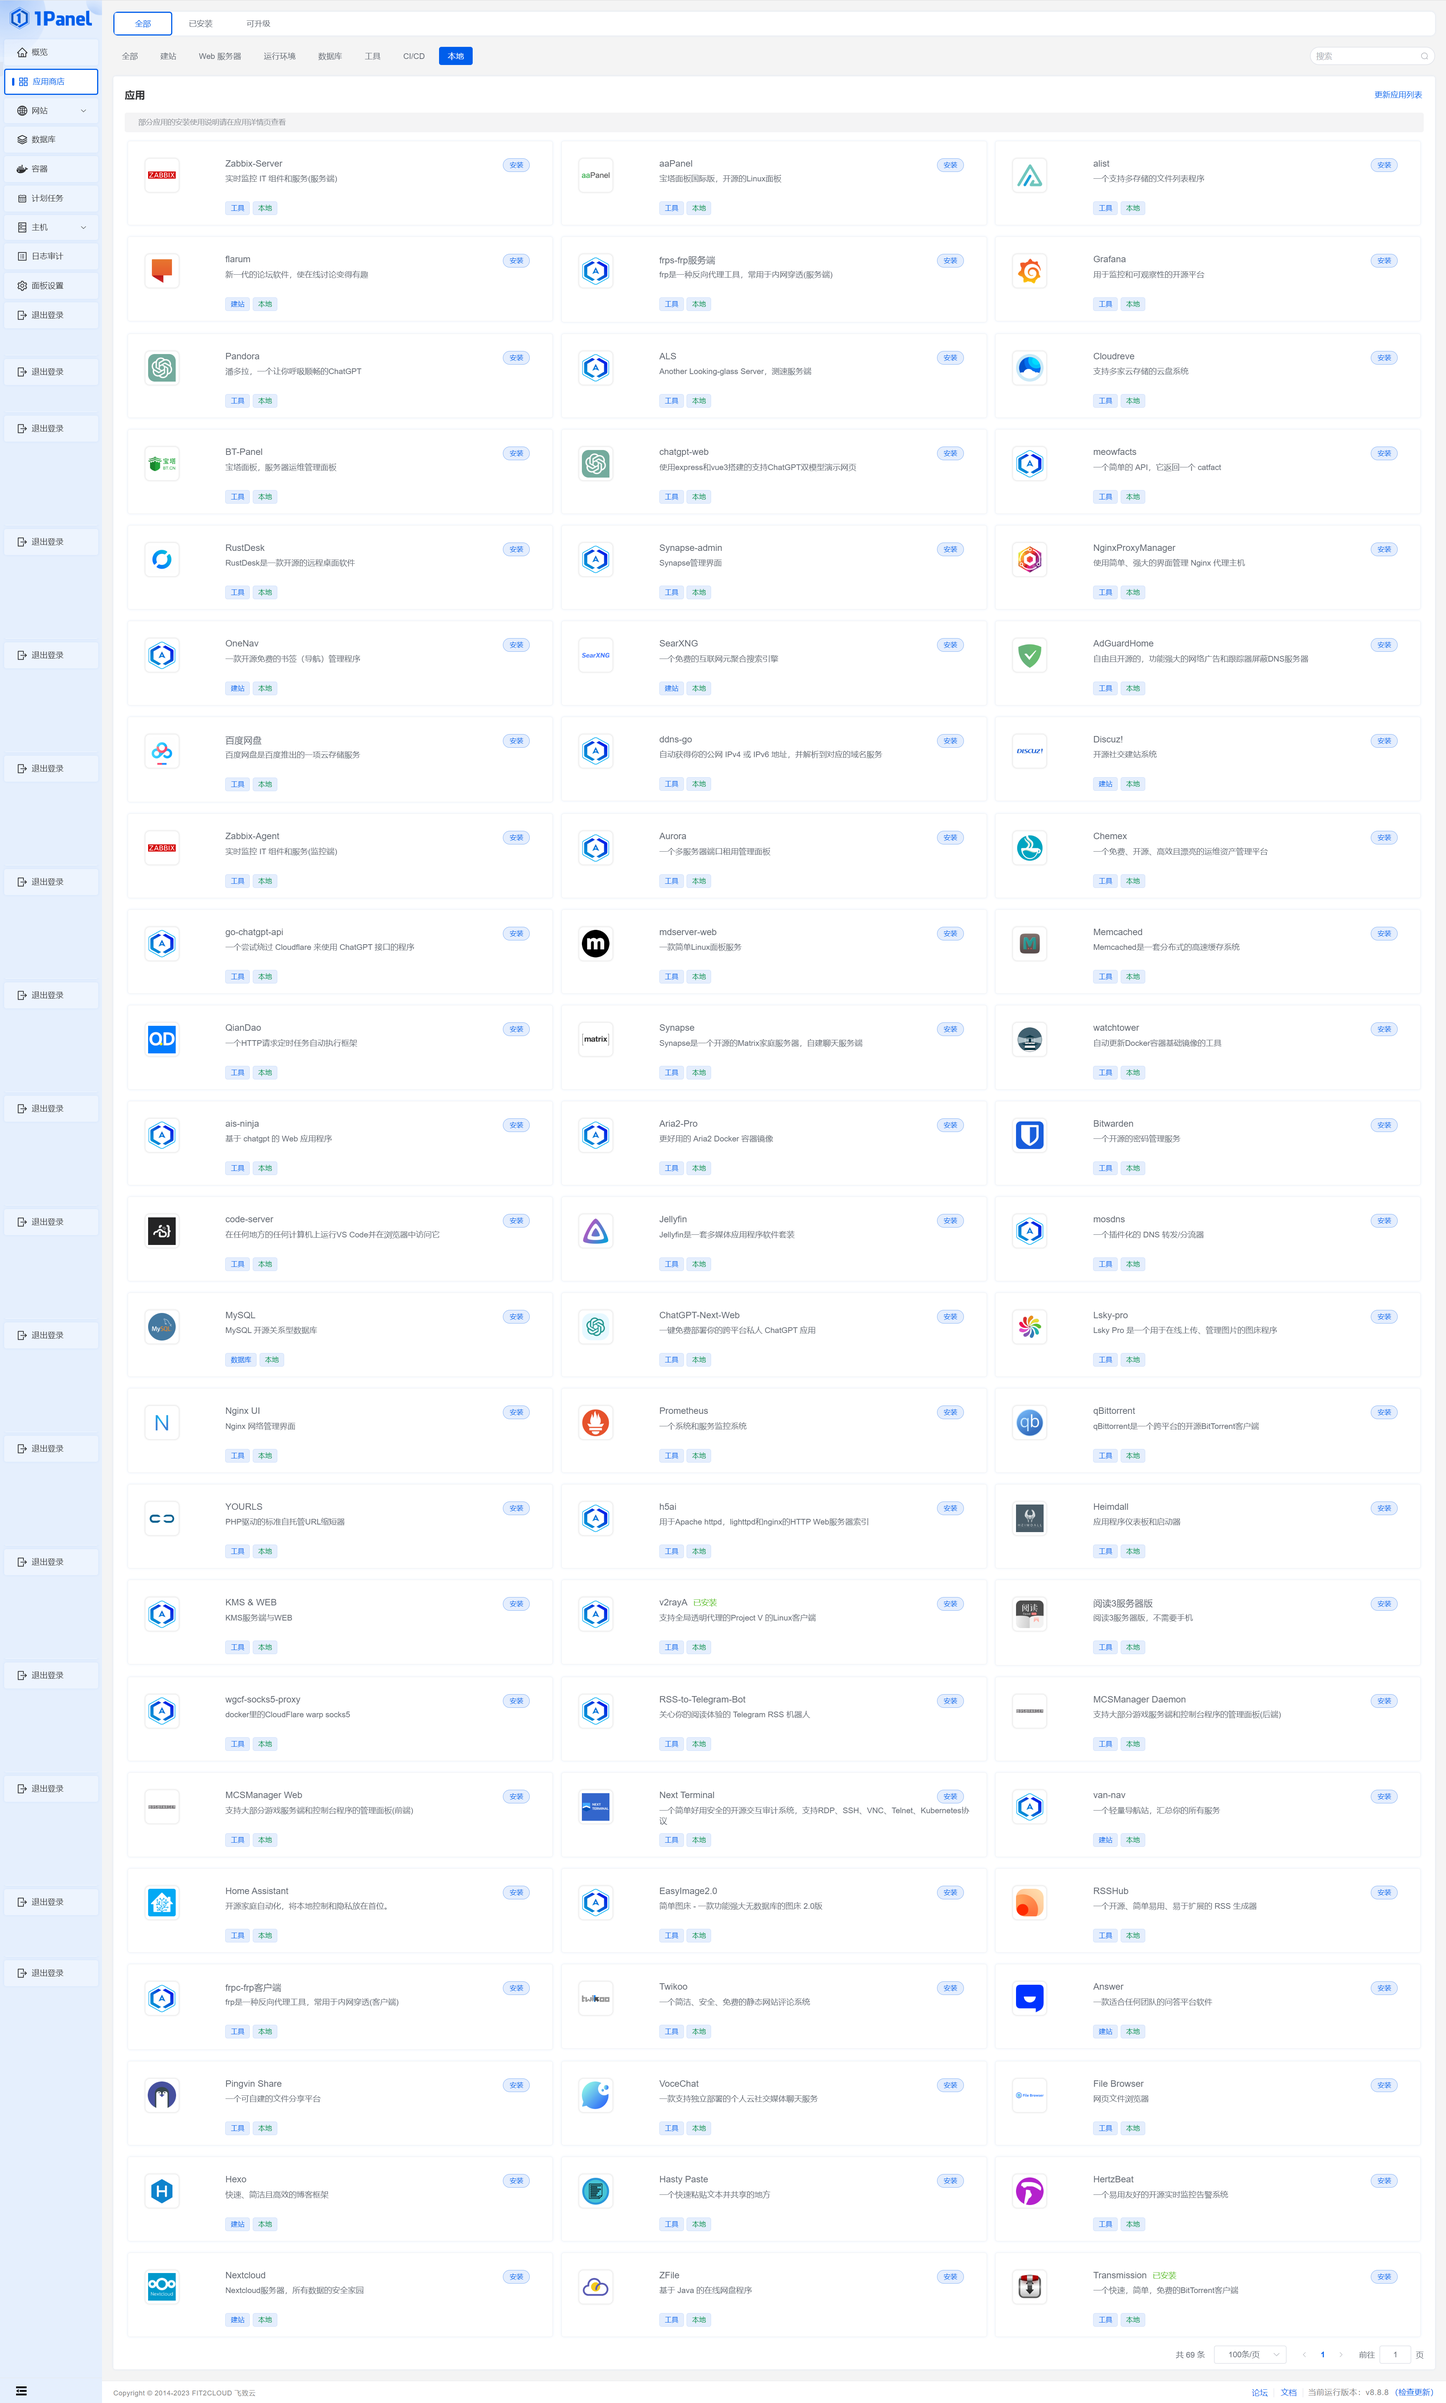
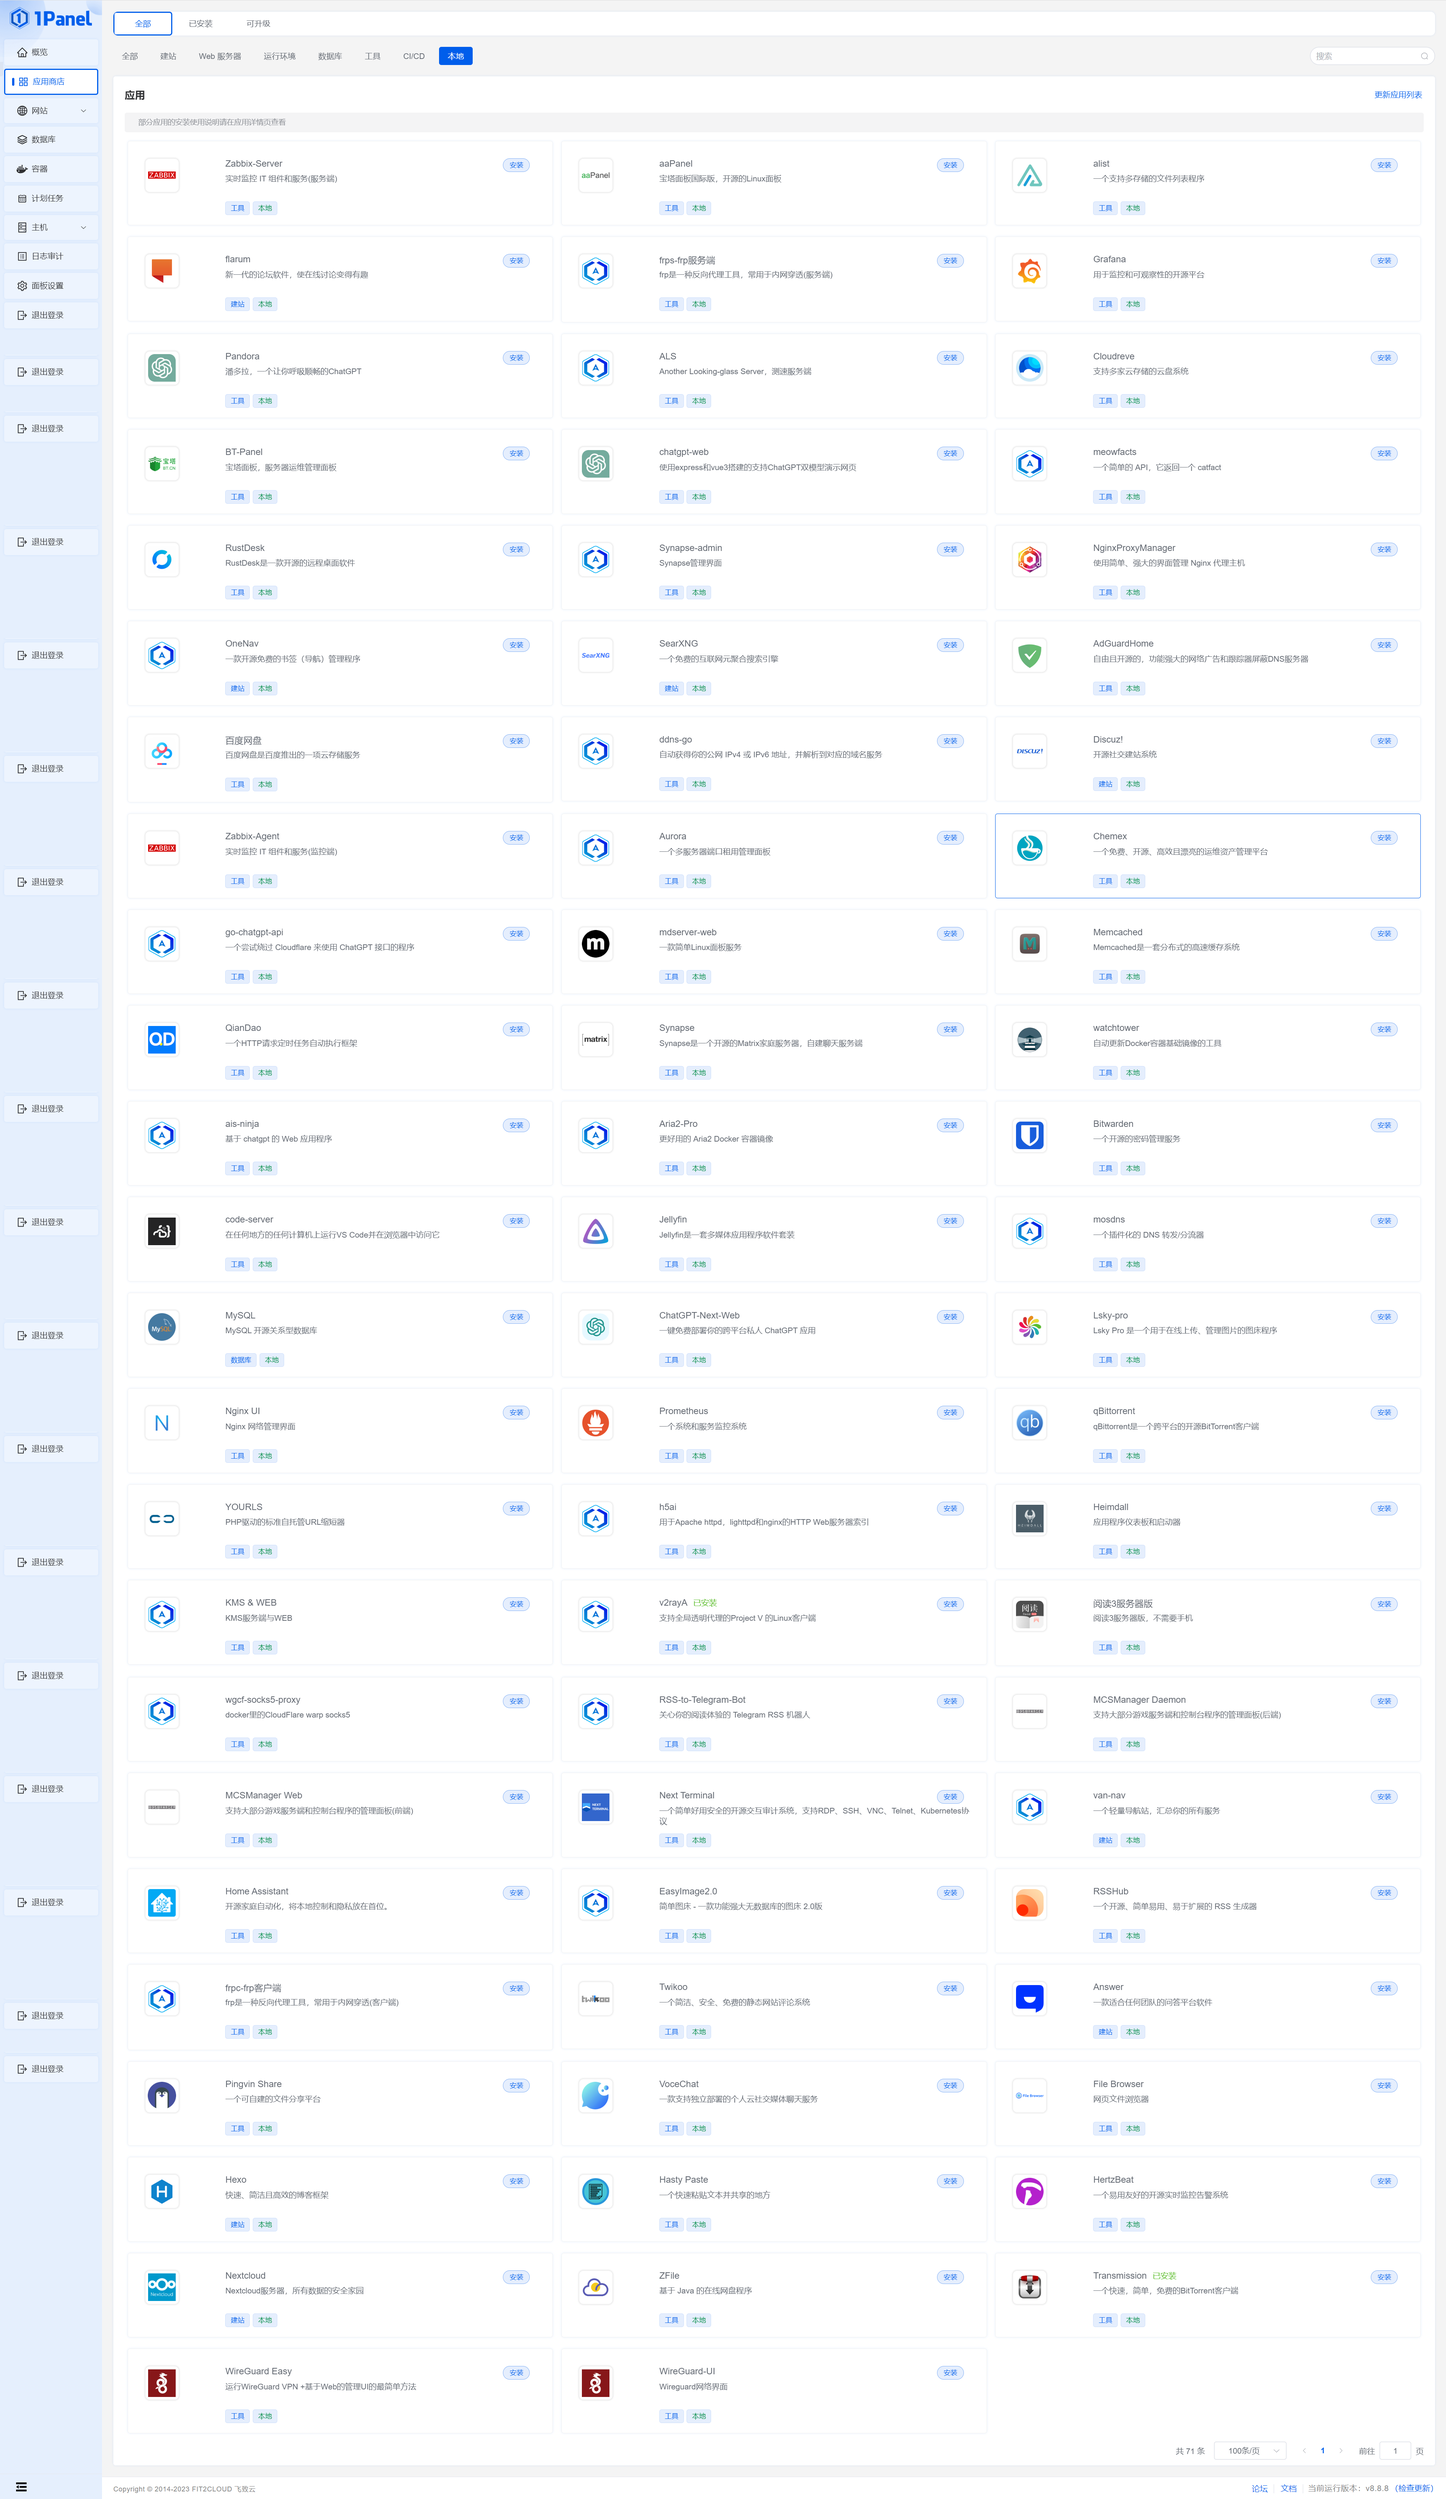
feat:添加wireguard-easy到列表

diff --git a/apps/wireguard-easy/README.md b/apps/wireguard-easy/README.md
@@ -1,0 +1,115 @@
+# WireGuard Easy
+
+[![Build & Publish Docker Image to Docker Hub](https://github.com/WeeJeWel/wg-easy/actions/workflows/deploy.yml/badge.svg?branch=production)](https://github.com/WeeJeWel/wg-easy/actions/workflows/deploy.yml)
+[![Lint](https://github.com/WeeJeWel/wg-easy/actions/workflows/lint.yml/badge.svg?branch=master)](https://github.com/WeeJeWel/wg-easy/actions/workflows/lint.yml)
+[![Docker](https://img.shields.io/docker/v/weejewel/wg-easy/latest)](https://hub.docker.com/r/weejewel/wg-easy)
+[![Docker](https://img.shields.io/docker/pulls/weejewel/wg-easy.svg)](https://hub.docker.com/r/weejewel/wg-easy)
+[![Sponsor](https://img.shields.io/github/sponsors/weejewel)](https://github.com/sponsors/WeeJeWel)
+![GitHub Stars](https://img.shields.io/github/stars/weejewel/wg-easy)
+
+You have found the easiest way to install & manage WireGuard on any Linux host!
+
+<p align="center">
+  <img src="https://github.com/wg-easy/wg-easy/raw/master/assets/screenshot.png" width="802" />
+</p>
+
+## Features
+
+* All-in-one: WireGuard + Web UI.
+* Easy installation, simple to use.
+* List, create, edit, delete, enable & disable clients.
+* Show a client's QR code.
+* Download a client's configuration file.
+* Statistics for which clients are connected.
+* Tx/Rx charts for each connected client.
+* Gravatar support.
+
+## Requirements
+
+* A host with a kernel that supports WireGuard (all modern kernels).
+* A host with Docker installed.
+
+## Installation
+
+### 1. Install Docker
+
+If you haven't installed Docker yet, install it by running:
+
+```bash
+$ curl -sSL https://get.docker.com | sh
+$ sudo usermod -aG docker $(whoami)
+$ exit
+```
+
+And log in again.
+
+### 2. Run WireGuard Easy
+
+To automatically install & run wg-easy, simply run:
+
+<pre>
+$ docker run -d \
+  --name=wg-easy \
+  -e WG_HOST=<b>🚨YOUR_SERVER_IP</b> \
+  -e PASSWORD=<b>🚨YOUR_ADMIN_PASSWORD</b> \
+  -v ~/.wg-easy:/etc/wireguard \
+  -p 51820:51820/udp \
+  -p 51821:51821/tcp \
+  --cap-add=NET_ADMIN \
+  --cap-add=SYS_MODULE \
+  --sysctl="net.ipv4.conf.all.src_valid_mark=1" \
+  --sysctl="net.ipv4.ip_forward=1" \
+  --restart unless-stopped \
+  weejewel/wg-easy
+</pre>
+
+> 💡 Replace `YOUR_SERVER_IP` with your WAN IP, or a Dynamic DNS hostname.
+> 
+> 💡 Replace `YOUR_ADMIN_PASSWORD` with a password to log in on the Web UI.
+
+The Web UI will now be available on `http://0.0.0.0:51821`.
+
+> 💡 Your configuration files will be saved in `~/.wg-easy`
+
+### 3. Sponsor
+
+Are you enjoying this project? [Buy me a beer!](https://github.com/sponsors/WeeJeWel) 🍻
+
+## Options
+
+These options can be configured by setting environment variables using `-e KEY="VALUE"` in the `docker run` command.
+
+| Env | Default | Example | Description |
+| - | - | - | - |
+| `PASSWORD` | - | `foobar123` | When set, requires a password when logging in to the Web UI. |
+| `WG_HOST` | - | `vpn.myserver.com` | The public hostname of your VPN server. |
+| `WG_DEVICE` | `eth0` | `ens6f0` | Ethernet device the wireguard traffic should be forwarded through. |
+| `WG_PORT` | `51820` | `12345` | The public UDP port of your VPN server. WireGuard will always listen on `51820` inside the Docker container. |
+| `WG_MTU` | `null` | `1420` | The MTU the clients will use. Server uses default WG MTU. |
+| `WG_PERSISTENT_KEEPALIVE` | `0` | `25` | Value in seconds to keep the "connection" open. If this value is 0, then connections won't be kept alive. |
+| `WG_DEFAULT_ADDRESS` | `10.8.0.x` | `10.6.0.x` | Clients IP address range. |
+| `WG_DEFAULT_DNS` | `1.1.1.1` | `8.8.8.8, 8.8.4.4` | DNS server clients will use. |
+| `WG_ALLOWED_IPS` | `0.0.0.0/0, ::/0` | `192.168.15.0/24, 10.0.1.0/24` | Allowed IPs clients will use. |
+| `WG_PRE_UP` | `...` | - | See [config.js](https://github.com/WeeJeWel/wg-easy/blob/master/src/config.js#L19) for the default value. |
+| `WG_POST_UP` | `...` | `iptables ...` | See [config.js](https://github.com/WeeJeWel/wg-easy/blob/master/src/config.js#L20) for the default value. |
+| `WG_PRE_DOWN` | `...` | - | See [config.js](https://github.com/WeeJeWel/wg-easy/blob/master/src/config.js#L27) for the default value. |
+| `WG_POST_DOWN` | `...` | `iptables ...` | See [config.js](https://github.com/WeeJeWel/wg-easy/blob/master/src/config.js#L28) for the default value. |
+
+> If you change `WG_PORT`, make sure to also change the exposed port.
+
+## Updating
+
+To update to the latest version, simply run:
+
+```bash
+docker stop wg-easy
+docker rm wg-easy
+docker pull weejewel/wg-easy
+```
+
+And then run the `docker run -d \ ...` command above again.
+
+## Common Use Cases
+
+* [Using WireGuard-Easy with Pi-Hole](https://github.com/WeeJeWel/wg-easy/wiki/Using-WireGuard-Easy-with-Pi-Hole)
+* [Using WireGuard-Easy with nginx/SSL](https://github.com/WeeJeWel/wg-easy/wiki/Using-WireGuard-Easy-with-nginx-SSL)
